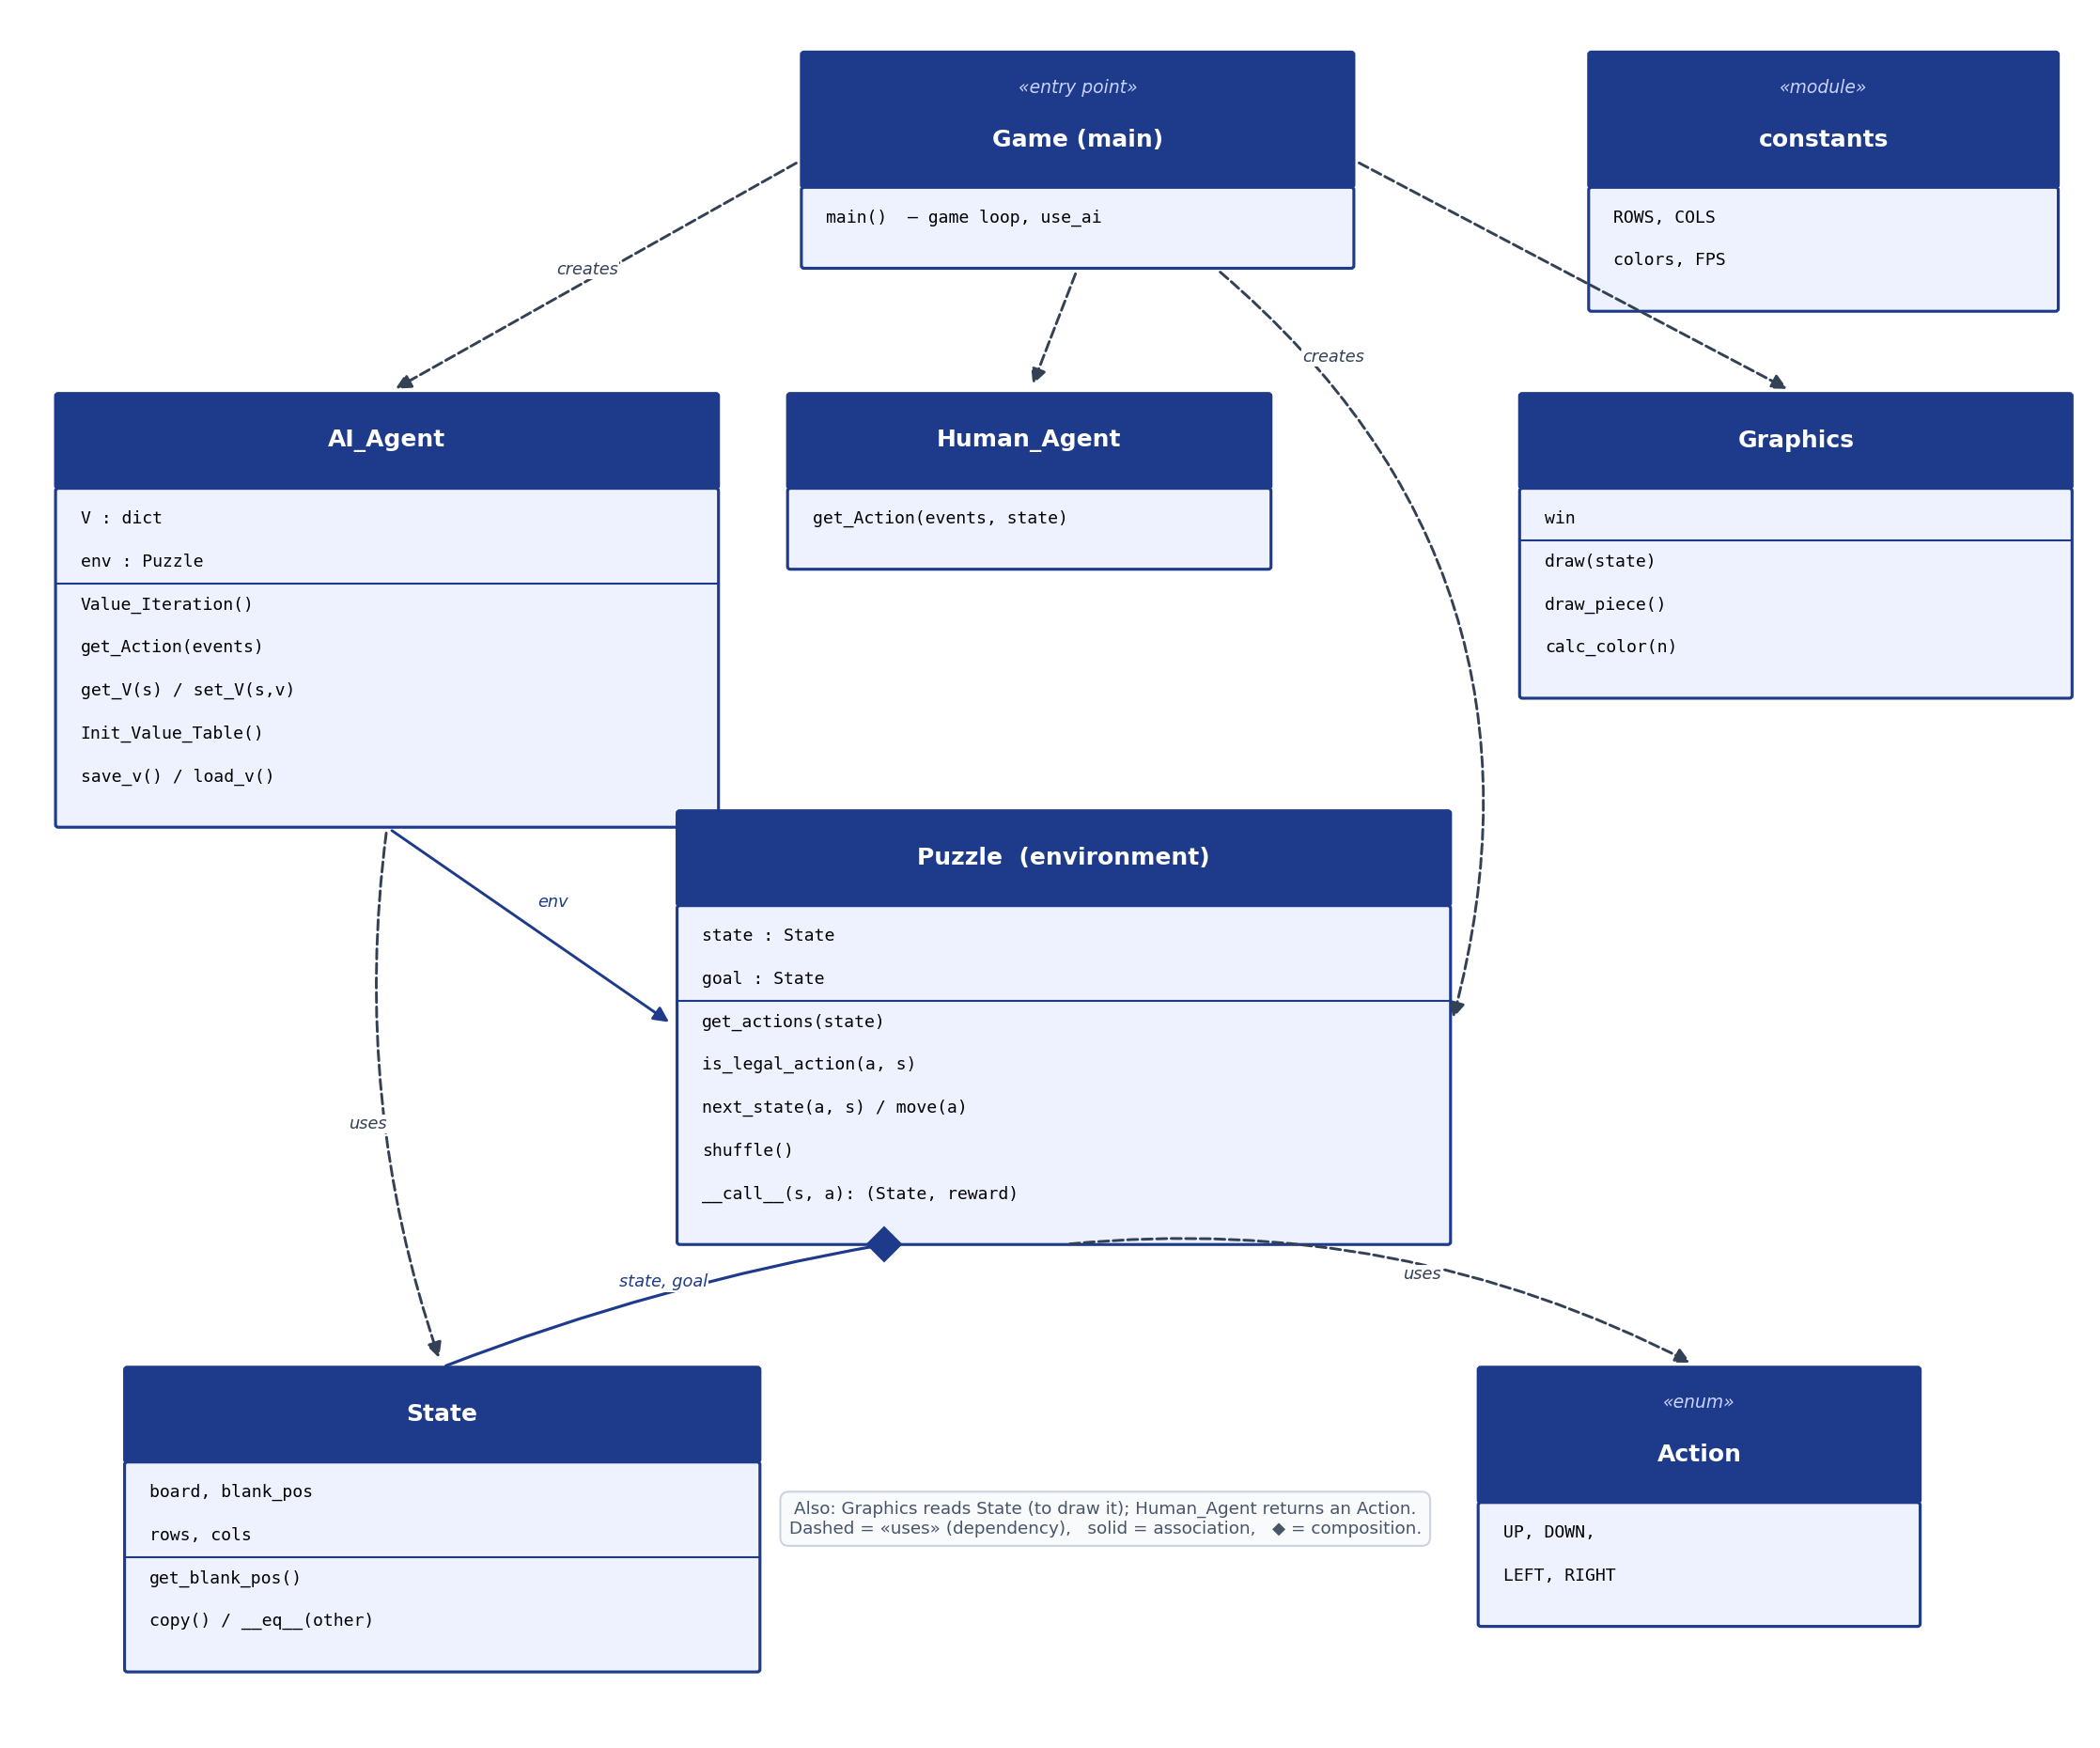
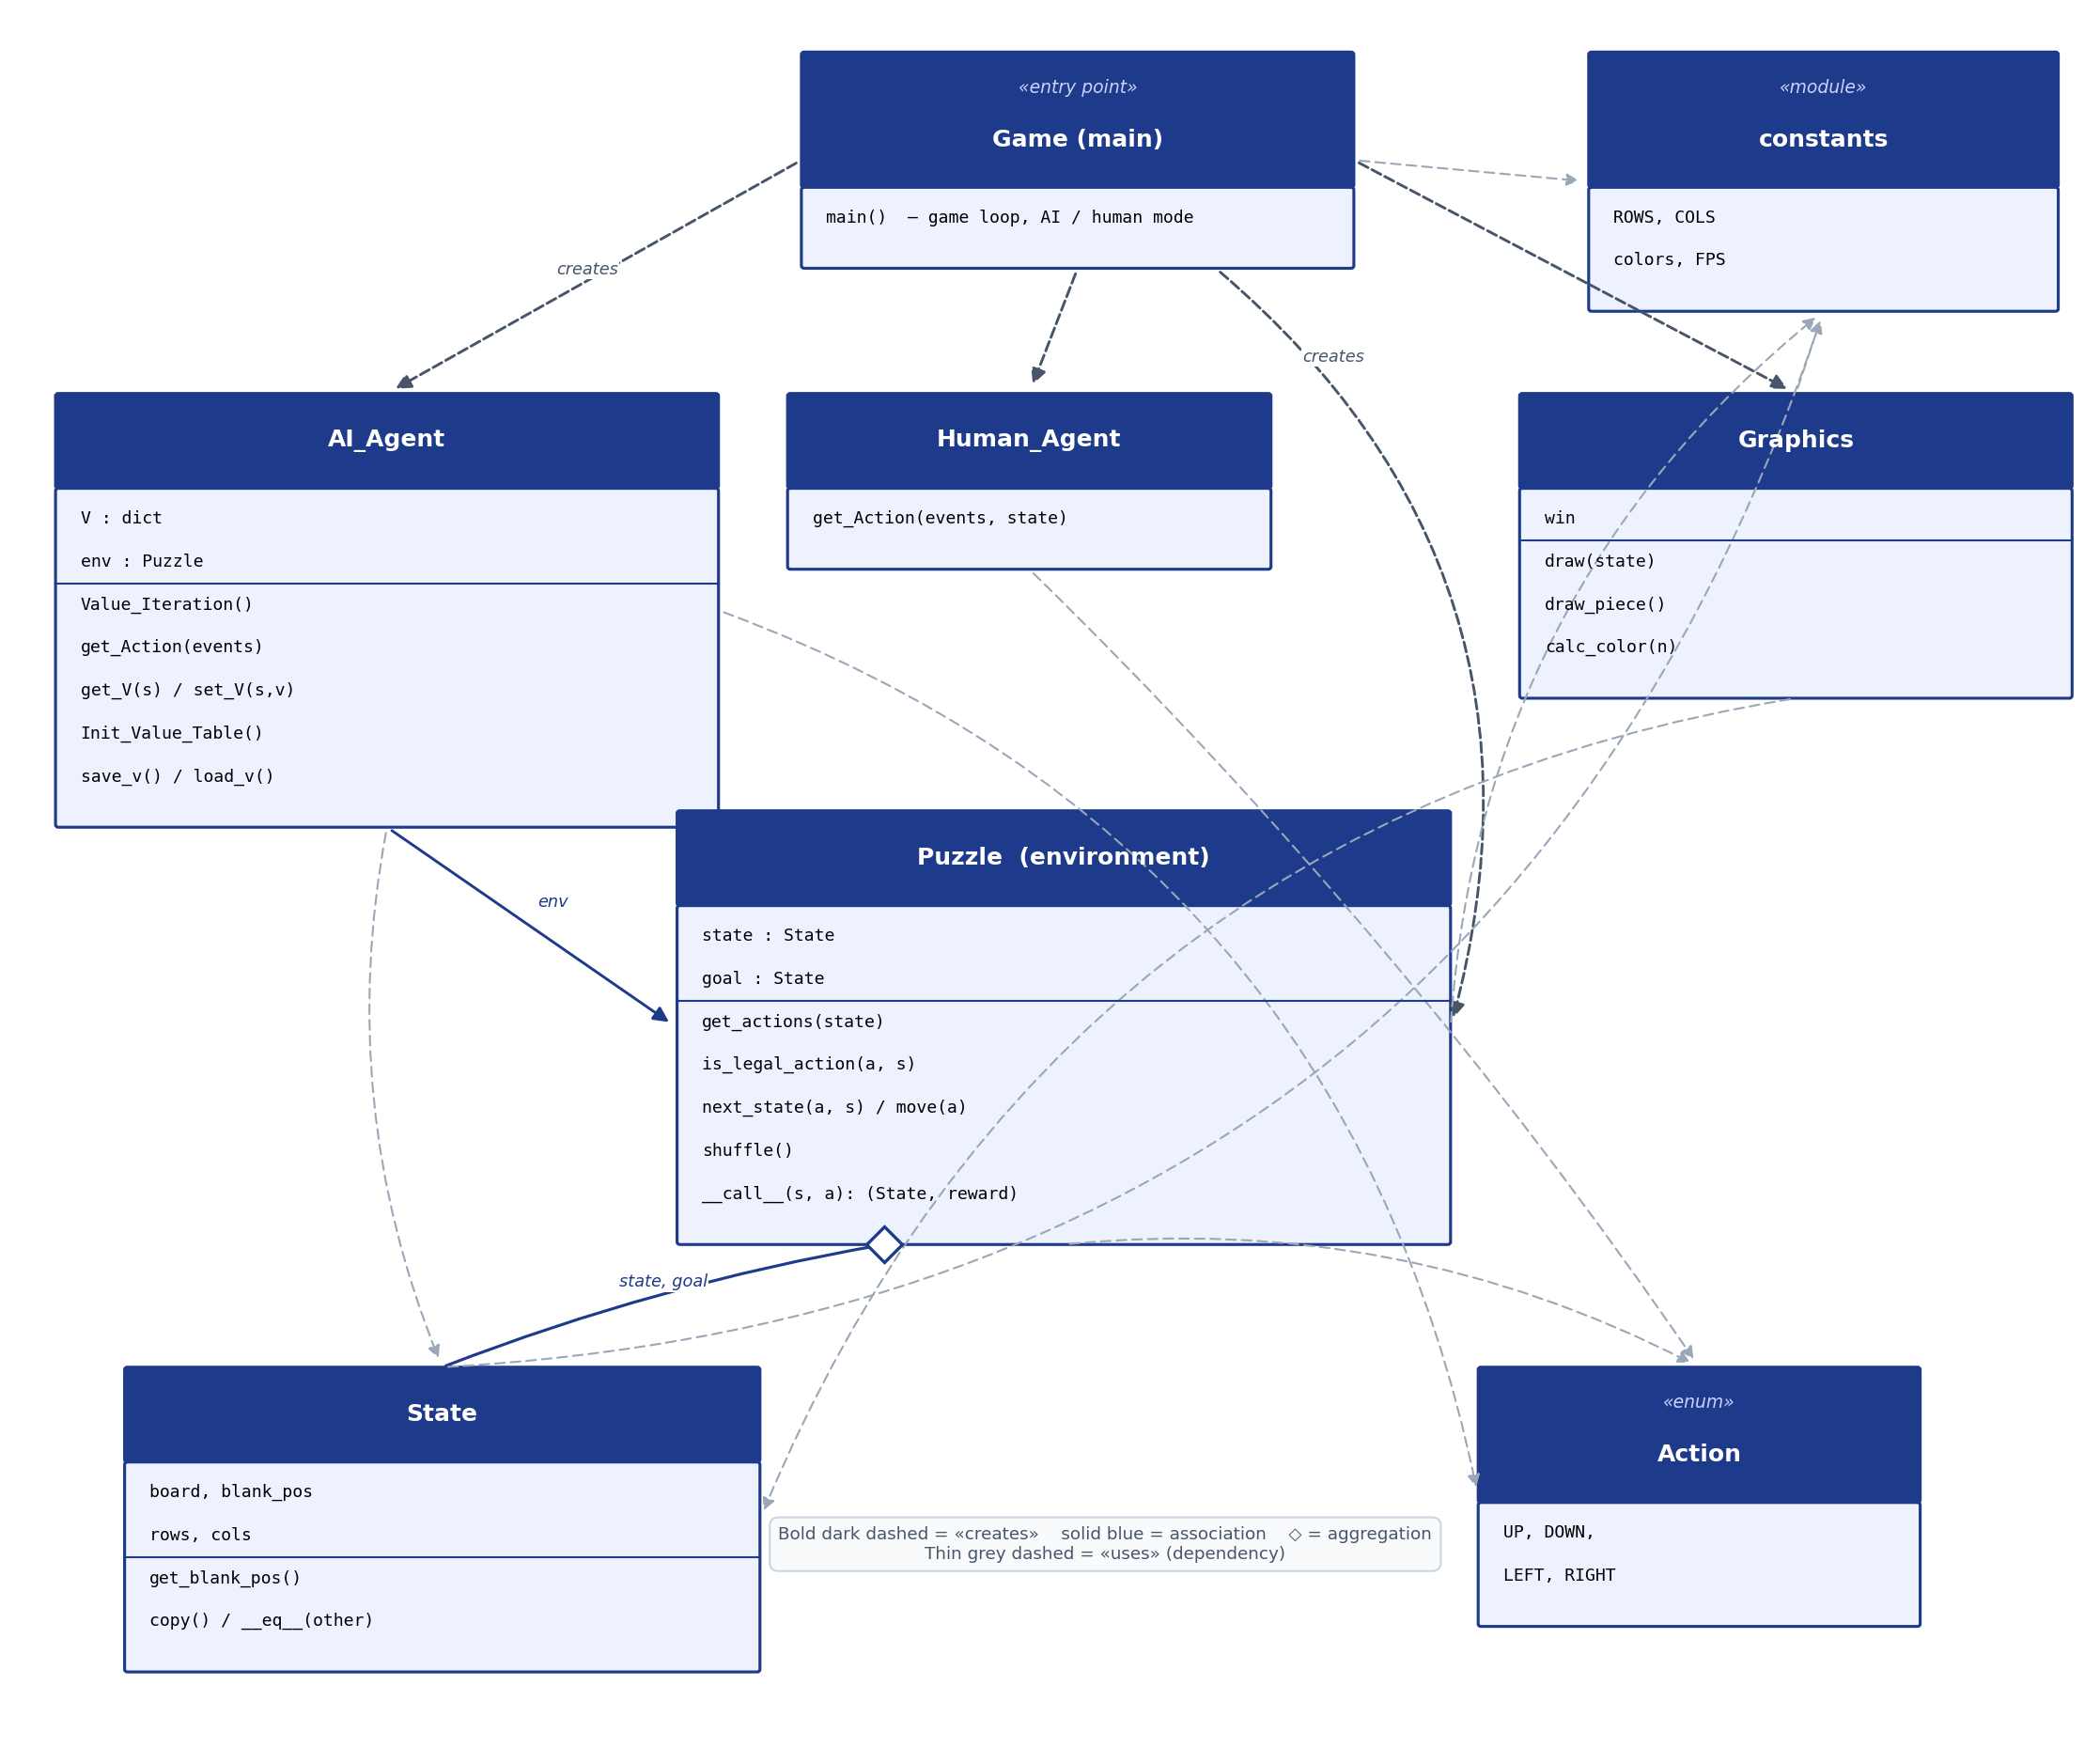
update images

diff --git a/experiments/run_experiments.py b/experiments/run_experiments.py
@@ -1,16 +1,23 @@
 """Experiments for the PuzzleNumber-AI project book (Value Iteration on the 8-puzzle).
-Pure-Python model (tuples) + matplotlib. Mirrors AI_Agent.Value_Iteration (Bellman
-optimality, gamma-discounted, reward=1 at goal). Outputs 3 PNGs + printed numbers."""
-import os, random, collections, math
+This version faithfully replicates the PRODUCTION algorithm in AI_Agent.Value_Iteration:
+in-place (Gauss-Seidel) updates, over ALL 9! = 362,880 permutations, in the same order
+(itertools.permutations), with the theta = 1e-4 stopping rule."""
+import os, random, collections
 import matplotlib
 matplotlib.use("Agg")
 import matplotlib.pyplot as plt
+from itertools import permutations
 
 random.seed(42)
-OUT = os.path.dirname(os.path.abspath(__file__))   # save graphs next to this script
-GOAL = tuple(range(9))          # (0,1,2,3,4,5,6,7,8), 0 = blank
+OUT = os.path.dirname(os.path.abspath(__file__))
 
-def neighbors(s):
+# ---- states enumerated in the production order (itertools.permutations) ----
+PERMS = list(permutations(range(9)))          # 362,880 tuples
+IDX = {s: i for i, s in enumerate(PERMS)}
+N = len(PERMS)
+GOAL = tuple(range(9)); GOAL_I = IDX[GOAL]
+
+def neighbor_tuples(s):
     p = s.index(0); r, c = divmod(p, 3); out = []
     for dr, dc in ((-1,0),(1,0),(0,-1),(0,1)):
         nr, nc = r+dr, c+dc
@@ -18,97 +25,100 @@ def neighbors(s):
             q = nr*3+nc; t = list(s); t[p], t[q] = t[q], t[p]; out.append(tuple(t))
     return out
 
-# ---- 1. BFS from goal: distances + the solvable component ----
-dist = {GOAL: 0}; dq = collections.deque([GOAL])
-while dq:
-    s = dq.popleft()
-    for n in neighbors(s):
-        if n not in dist:
-            dist[n] = dist[s] + 1; dq.append(n)
-STATES = list(dist)
-MAXD = max(dist.values()); AVGD = sum(dist.values())/len(dist)
-print(f"[model] solvable states={len(STATES)}  max dist={MAXD}  avg dist={AVGD:.3f}")
+ADJ = [[IDX[t] for t in neighbor_tuples(s)] for s in PERMS]
 
-# ---- 2. Value Iteration (Jacobi sweeps), logging Delta per sweep ----
+# ---- BFS from goal: solvable component + optimal distances ----
+dist = {GOAL_I: 0}; dq = collections.deque([GOAL_I])
+while dq:
+    u = dq.popleft()
+    for v in ADJ[u]:
+        if v not in dist:
+            dist[v] = dist[u] + 1; dq.append(v)
+SOLV = list(dist)
+MAXD = max(dist.values()); AVGD = sum(dist.values())/len(dist)
+print(f"[model] total={N}  solvable={len(SOLV)}  unsolvable={N-len(SOLV)}  maxD={MAXD}  avgD={AVGD:.4f}")
+
+# ---- production-faithful Value Iteration (Gauss-Seidel, all states, theta stop) ----
 def value_iteration(gamma, theta=1e-4):
-    V = {s: 0.0 for s in STATES}
-    deltas = []
+    V = [0.0]*N; deltas = []
     while True:
-        newV = {}; delta = 0.0
-        for s in STATES:
-            if s == GOAL:
-                newV[s] = 0.0; continue
-            best = max((1.0 if n == GOAL else 0.0) + gamma*V[n] for n in neighbors(s))
-            newV[s] = best; delta = max(delta, abs(best - V[s]))
-        V = newV; deltas.append(delta)
+        delta = 0.0
+        for i in range(N):
+            if i == GOAL_I:
+                continue
+            best = None
+            for v in ADJ[i]:
+                val = (1.0 if v == GOAL_I else 0.0) + gamma*V[v]   # in-place read = Gauss-Seidel
+                if best is None or val > best:
+                    best = val
+            d = V[i] - best
+            if d < 0: d = -d
+            if d > delta: delta = d
+            V[i] = best
+        deltas.append(delta)
         if delta < theta:
             break
     return V, deltas
 
-GAMMA = 0.95
-V, deltas = value_iteration(GAMMA)
-print(f"[VI] gamma={GAMMA}  sweeps={len(deltas)}  final V matches gamma^(d-1): "
-      f"{all(abs(V[s]-(GAMMA**(dist[s]-1) if s!=GOAL else 0))<1e-6 for s in STATES)}")
-
-# ---- greedy policy solver (uses V) ----
 def solve_len(start, V, gamma, cap=200):
-    s = start; steps = 0
-    while s != GOAL and steps < cap:
-        s = max(neighbors(s), key=lambda n: (1.0 if n == GOAL else 0.0) + gamma*V[n])
-        steps += 1
-    return steps if s == GOAL else None
+    i = start; steps = 0
+    while i != GOAL_I and steps < cap:
+        best = None; bi = None
+        for v in ADJ[i]:
+            val = (1.0 if v == GOAL_I else 0.0) + gamma*V[v]
+            if best is None or val > best:
+                best = val; bi = v
+        i = bi; steps += 1
+    return steps if i == GOAL_I else None
 
-# sanity: greedy length == optimal distance
-sample = random.sample(STATES, 300)
-assert all(solve_len(s, V, GAMMA) == dist[s] for s in sample), "greedy != optimal!"
-print("[VI] greedy policy is optimal on 300-state sample: OK")
+# ===== GRAPH 1: production convergence (gamma = 0.95) =====
+GAMMA = 0.95
+V95, deltas = value_iteration(GAMMA)
+print(f"[VI prod g=0.95] sweeps={len(deltas)} delta_1={deltas[0]:.4g} delta_last={deltas[-1]:.4g}")
+chk = random.sample(SOLV, 300)
+opt_ok = all(solve_len(s, V95, GAMMA) == dist[s] for s in chk)
+print("[VI prod] greedy optimal on 300 solvable sample:", opt_ok)
 
-# ================= GRAPH 1: convergence =================
-plt.figure(figsize=(7,4.3))
+plt.figure(figsize=(7.2,4.3))
 plt.semilogy(range(1, len(deltas)+1), deltas, marker="o", ms=4, color="#2563eb")
 plt.axhline(1e-4, ls="--", color="#dc2626", lw=1, label=r"$\theta=10^{-4}$")
 plt.xlabel("Sweep number  k"); plt.ylabel(r"$\Delta$  (max value change)  [log]")
-plt.title(f"Value Iteration convergence  ($\\gamma$={GAMMA})")
+plt.title(f"Convergence — production Gauss-Seidel, all {N:,} states  ($\\gamma$={GAMMA})")
 plt.grid(True, which="both", ls=":", alpha=0.5); plt.legend()
 plt.tight_layout(); plt.savefig(f"{OUT}/graph1_convergence.png", dpi=150); plt.close()
-print(f"[graph1] sweeps={len(deltas)}  delta_1={deltas[0]:.4g}  delta_last={deltas[-1]:.4g}")
 
-# ================= GRAPH 2: effect of gamma =================
+# ===== GRAPH 2: real theta-based VI per gamma =====
 GAMMAS = [0.5, 0.9, 0.95, 0.99]
-test_states = random.sample(STATES, 1000)
-avg_len = {}; min_val = {}
+test = random.sample(SOLV, 1000)
+succ = {}; sweeps_g = {}; avglen = {}
 for g in GAMMAS:
-    Vg = {s: (0.0 if s == GOAL else g**(dist[s]-1)) for s in STATES}   # = VI fixed point
-    lens = [solve_len(s, Vg, g) for s in test_states]
-    avg_len[g] = sum(lens)/len(lens)
-    min_val[g] = g**(MAXD-1)
-    print(f"[gamma={g}] avg solution length={avg_len[g]:.3f}  min state value gamma^{MAXD-1}={min_val[g]:.3e}")
+    Vg, dl = value_iteration(g)
+    res = [solve_len(s, Vg, g) for s in test]
+    ok = [r for r in res if r is not None]
+    succ[g] = 100.0*len(ok)/len(test); sweeps_g[g] = len(dl)
+    avglen[g] = sum(ok)/len(ok) if ok else 0
+    print(f"[g={g}] sweeps={len(dl)} success={succ[g]:.1f}% avg_len={avglen[g]:.2f} failed={len(test)-len(ok)}")
 
 fig, (ax1, ax2) = plt.subplots(1, 2, figsize=(10,4.2))
-ax1.bar([str(g) for g in GAMMAS], [avg_len[g] for g in GAMMAS], color="#2563eb", width=0.6)
-ax1.set_xlabel(r"discount factor  $\gamma$"); ax1.set_ylabel("avg solution length (steps)")
-ax1.set_title("Solution length vs $\\gamma$  (identical = optimal)")
-ax1.set_ylim(0, AVGD*1.4)
-for i,g in enumerate(GAMMAS): ax1.text(i, avg_len[g]+0.3, f"{avg_len[g]:.1f}", ha="center", fontsize=9)
-ax2.semilogy(range(len(GAMMAS)), [min_val[g] for g in GAMMAS], marker="s", color="#dc2626")
-ax2.set_xticks(range(len(GAMMAS))); ax2.set_xticklabels([str(g) for g in GAMMAS])
-ax2.set_xlabel(r"discount factor  $\gamma$"); ax2.set_ylabel(r"min state value  $\gamma^{\,d_{max}}$  [log]")
-ax2.set_title("Value dynamic range vs $\\gamma$"); ax2.grid(True, which="both", ls=":", alpha=0.5)
+ax1.bar([str(g) for g in GAMMAS], [succ[g] for g in GAMMAS], color="#2563eb", width=0.6)
+ax1.set_ylim(0,108); ax1.set_ylabel("states solved (%)"); ax1.set_xlabel(r"discount factor $\gamma$")
+ax1.set_title("Success rate vs $\\gamma$  (real $\\theta$-based VI)")
+for i,g in enumerate(GAMMAS): ax1.text(i, succ[g]+2, f"{succ[g]:.0f}%", ha="center", fontsize=9)
+ax2.bar([str(g) for g in GAMMAS], [sweeps_g[g] for g in GAMMAS], color="#dc2626", width=0.6)
+ax2.set_ylabel(r"sweeps until $\Delta<\theta$"); ax2.set_xlabel(r"discount factor $\gamma$")
+ax2.set_title("Sweeps before stopping vs $\\gamma$")
+for i,g in enumerate(GAMMAS): ax2.text(i, sweeps_g[g]+0.4, str(sweeps_g[g]), ha="center", fontsize=9)
 plt.tight_layout(); plt.savefig(f"{OUT}/graph2_gamma.png", dpi=150); plt.close()
 
-# ================= GRAPH 3: solution-length distribution + shuffle depth =================
-rand_states = random.sample(STATES, 3000)
-sol_lens = [dist[s] for s in rand_states]   # greedy == optimal (verified)
-def shuffle_state(depth):
-    s = GOAL
-    for _ in range(depth):
-        s = random.choice(neighbors(s))
-    return s
+# ===== GRAPH 3: distribution + shuffle depth (converged gamma=0.95) =====
+rand_states = random.sample(SOLV, 3000)
+sol_lens = [dist[s] for s in rand_states]
+def shuffle_idx(depth):
+    i = GOAL_I
+    for _ in range(depth): i = random.choice(ADJ[i])
+    return i
 DEPTHS = [1,2,3,5,8,10,15,20,30,50,100]
-depth_avg = []
-for d in DEPTHS:
-    ds = [dist[shuffle_state(d)] for _ in range(800)]
-    depth_avg.append(sum(ds)/len(ds))
+depth_avg = [sum(dist[shuffle_idx(d)] for _ in range(800))/800 for d in DEPTHS]
 
 fig, (ax1, ax2) = plt.subplots(1, 2, figsize=(10,4.2))
 ax1.hist(sol_lens, bins=range(0, MAXD+2), color="#2563eb", edgecolor="white", align="left")
@@ -121,8 +131,5 @@ ax2.axhline(AVGD, color="#6b7280", ls="--", label=f"overall avg dist={AVGD:.1f}"
 ax2.set_xlabel("shuffle depth (random moves)"); ax2.set_ylabel("avg solution length")
 ax2.set_title("Effect of shuffle depth"); ax2.grid(True, ls=":", alpha=0.5); ax2.legend()
 plt.tight_layout(); plt.savefig(f"{OUT}/graph3_distribution.png", dpi=150); plt.close()
-
-print(f"[graph3] mean solution length={sum(sol_lens)/len(sol_lens):.3f}  "
-      f"min={min(sol_lens)} max={max(sol_lens)}")
-print("[depth] " + "  ".join(f"{d}:{a:.1f}" for d,a in zip(DEPTHS, depth_avg)))
+print(f"[graph3] mean={sum(sol_lens)/len(sol_lens):.3f} min={min(sol_lens)} max={max(sol_lens)}")
 print("DONE")

diff --git a/README.md b/README.md
@@ -139,18 +139,24 @@ python run_experiments.py
 ### 1. Convergence of Value Iteration
 ![Convergence](experiments/graph1_convergence.png)
 
-`Δ` (the maximum change per sweep, log scale) starts at `1.0` and decreases
-geometrically as the goal value propagates one "ring" of states outward per sweep.
-After **32 sweeps** every reachable state (diameter = **31 moves**) has its final
-value and `Δ` drops to `0`.
+`Δ` (the maximum change per sweep, log scale) starts at `1.0` and falls
+geometrically as the goal value propagates outward. Running the **production
+algorithm** (in-place / Gauss-Seidel sweeps over all **362,880** states, γ = 0.95)
+it reaches `0` after **17 sweeps** — fewer than a synchronous (Jacobi) update, because
+in-place updates reuse values computed earlier in the same sweep. Of the 362,880
+arrangements, **181,440** are solvable (reachable from the goal, receive positive
+values); the other 181,440 are unsolvable and stay at 0.
 
 ### 2. Effect of the discount factor γ
 ![Gamma effect](experiments/graph2_gamma.png)
 
-Across `γ ∈ {0.5, 0.9, 0.95, 0.99}` the **average solution length is identical
-(~22 steps) and optimal** — the greedy policy depends only on the *ordering* of the
-values, which discounting preserves. γ only changes the numeric dynamic range
-(right panel): `γ^30` collapses from ~0.21 at γ = 0.95 to ~9×10⁻¹⁰ at γ = 0.5.
+Running the **real θ = 1e-4 iteration** for each γ and measuring how many of 1000
+random solvable states the greedy policy actually solves: for `γ ∈ {0.9, 0.95, 0.99}`
+it converges in **17 sweeps** and solves **100%** optimally (~22 steps). For `γ = 0.5`
+it stops after only **9 sweeps** — before the values reach the distant states — and
+solves only **~30%** (the other 70% fail, because those states keep value 0 and the
+greedy policy has no gradient). So `γ` must be large enough for Value Iteration to
+converge *before* the fixed threshold stops it; `γ = 0.95` satisfies this comfortably.
 
 ### 3. Distribution of solution lengths & shuffle depth
 ![Distribution](experiments/graph3_distribution.png)